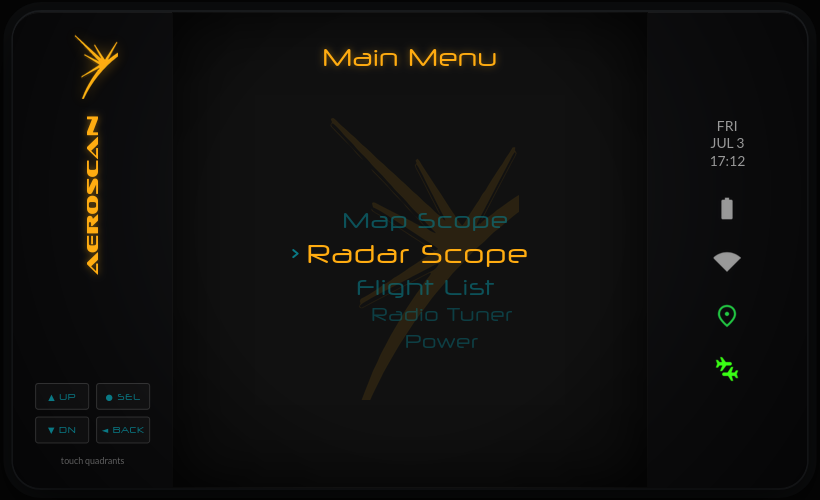
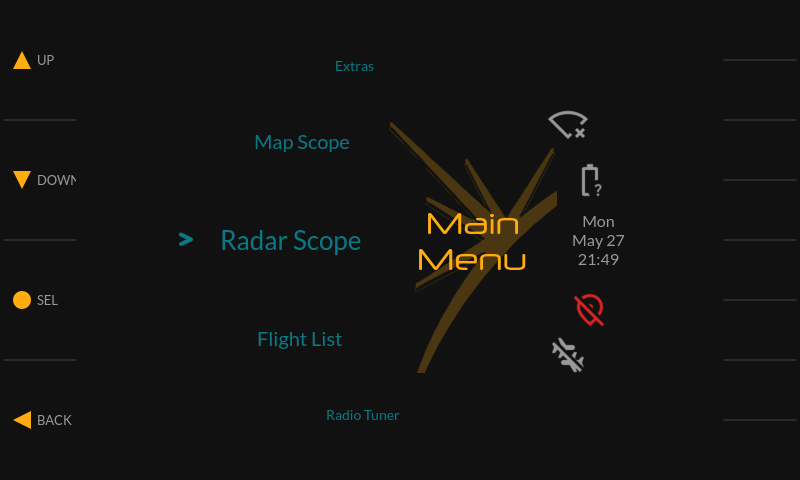
README: on-device screenshots, display selector and flash docs
Replace the design-render hero with a real on-device capture of the
main menu and add a Map Scope / Settings / Extras gallery (taken with
the GUI's F12 screenshot hotkey on the DSI panel). Document the
config.txt display-selection mechanism, the clone-panel kernel patch,
the safe flash-sd.sh flashing flow, and refresh the hardware table and
Pi 4 status for the DSI-default setup.

diff --git a/README.md b/README.md
@@ -10,9 +10,17 @@ firmware from its custom Allwinner T113S hardware to commodity Raspberry Pi
 hardware.
 
 <p align="center">
-  <img src="docs/main-menu.png" width="640" alt="AeroScan main menu — arc menu with Radar Scope focused, brand column left, status rail right">
+  <img src="docs/main-menu.png" width="640" alt="AeroScan main menu — arc menu with Radar Scope focused, touch zones left, status rail right">
   <br>
-  <em>Main menu (design-system render of the 800×480 instrument UI)</em>
+  <em>Main menu — on-device screenshot, 800×480 DSI display</em>
+</p>
+
+<p align="center">
+  <img src="docs/map-scope.png" width="32%" alt="Map Scope — aviation chart with airspace rings and airports">
+  <img src="docs/settings-menu.png" width="32%" alt="Settings menu">
+  <img src="docs/extras-menu.png" width="32%" alt="Extras menu">
+  <br>
+  <em>Map Scope (OpenAIP airspace overlay), Settings, and Extras — captured on-device (F12 screenshot hotkey)</em>
 </p>
 
 ## Features
@@ -26,8 +34,8 @@ Bluetooth keyboard. From the main menu:
 - **Map Scope** — the same traffic overlaid on aviation chart tiles (airspace,
   airports, NAVAIDs).
 - **Flight List** — scrollable list of tracked aircraft.
-- **Radio Tuner** — multi-band RTL-SDR receiver (see below). Appears only when a
-  second RTL-SDR dongle is present.
+- **Radio Tuner** — multi-band RTL-SDR receiver (see below). Works with one
+  dongle (handing off from ADS-B) or two (alongside ADS-B).
 - **Extras** — GPS List (satellite/fix detail), GPS Tracker (position plot),
   Clock, OScope, and Media Player (legacy avBadge demo apps).
 - **Credits**, **Settings**, and **Power** (poweroff / reboot / restart UI / exit
@@ -35,8 +43,11 @@ Bluetooth keyboard. From the main menu:
 
 ### Radio tuner
 
-Runs on a dedicated second RTL-SDR dongle (device 1; device 0 stays on ADS-B, so
-there is no coverage gap). Fully operable from the four touch keys:
+Shares the RTL-SDR hardware with ADS-B. With **two dongles** it runs on device 1
+while dump1090 keeps device 0, so there is no ADS-B coverage gap. With a **single
+dongle** it hands off: opening the tuner stops dump1090 and takes the dongle, and
+returning to an ADS-B screen (Radar/Map Scope, Flight List) restarts dump1090.
+Fully operable from the four touch keys:
 
 - **Bands** — FM broadcast (87.9–107.9 MHz, wideband FM), aviation airband
   (118–137 MHz, AM), and 2 m amateur (144–148 MHz, narrowband FM).
@@ -76,11 +87,41 @@ spontaneous reboots.
 | Component | Notes |
 |---|---|
 | Raspberry Pi 4 (recommended) or Pi 2 Model B | Pi 2 needs a powered USB hub |
-| Display | Pi 4: official 7" DSI or compatible clones (auto-detected), or HDMI. Pi 2: Waveshare 800×480 HDMI + XPT2046 resistive touch (SPI) |
-| RTL-SDR USB dongle(s) | device 0 = ADS-B 1090 MHz (dump1090); a second dongle (device 1) enables the radio tuner (FM / airband / 2 m) |
+| Display | Pi 4: Hosyond 5" DSI 800×480 (official-RPi-7"-clone, capacitive touch — default) or Waveshare 4" 480×800 HDMI + XPT2046 resistive touch, selected by one line in `config.txt` (see [Display selection](#display-selection-pi-4)). Pi 2: the Waveshare HDMI panel |
+| RTL-SDR USB dongle(s) | one runs ADS-B 1090 MHz (dump1090); the radio tuner (FM / airband / 2 m) hands off from it, or uses a second dongle to run alongside ADS-B |
 | u-blox GPS receiver | NEO-6M or similar, USB serial |
 | USB WiFi dongle | RT5370 supported out of the box |
 | Bluetooth | Pi 4 uses onboard BT (Pi 2 needs a USB dongle); in-app pairing over BlueZ D-Bus for a keyboard and/or audio headphones |
+
+## Display selection (Pi 4)
+
+The Pi 4 image supports two panels. The active one is chosen by a single
+`include` line in `config.txt` on the SD card's FAT boot partition — editable
+on any computer by moving the leading `#`:
+
+```
+include display-dsi.txt      # Hosyond 5" DSI, 800×480 landscape (default)
+#include display-hdmi.txt    # Waveshare 4" HDMI, 480×800 portrait + XPT2046
+```
+
+Each `display-*.txt` carries everything its panel needs — device tree overlays,
+touch controller, and (for HDMI) the matching kernel cmdline with console
+rotation and hotplug forcing — so swapping panels requires no other edits. The
+on-device services (`aeroscan-display-init`, sourced for both the systemd unit
+and manual `aeroscan-gui` starts) detect the connected panel at runtime and set
+the Qt rotation and touch mapping to match.
+
+The Hosyond panel, like most "official-compatible" DSI clones, emulates the
+original ATTiny power-controller I2C protocol and ignores the port-state
+protocol the mainline `rpi-panel-attiny-regulator` driver switched to in
+Linux 5.16 — stock kernels leave it black at the firmware→kernel handoff, with
+no errors anywhere. The image carries a kernel patch
+(`buildroot-external/board/rpi4/linux/patches/`) restoring the legacy power-on
+sequence. Two helper scripts support display bring-up: `patch-sd-dsi.sh`
+patches a flashed card from the host without a rebuild, and
+`aeroscan-dsidiag.sh` (installed on-device as `aeroscan-dsidiag`) collects DSI
+pipeline state; `aeroscan-drm-init` also dumps display diagnostics to
+`/var/log/` on every boot.
 
 ## Building
 
@@ -100,10 +141,14 @@ make rpi4                        # configure + full build (or: make rpi2)
 Flash the result to an SD card:
 
 ```bash
-# oflag=direct + conv=fsync make dd block until data is physically on the
-# card — without them, pulling the card early silently corrupts the rootfs
-dd if=output/rpi4/images/sdcard.img of=/dev/sdX bs=4M oflag=direct conv=fsync status=progress
+./flash-sd.sh /dev/sdX          # unmounts auto-mounts, flashes, verifies
 ```
+
+(`flash-sd.sh` wraps `dd bs=4M oflag=direct conv=fsync`. Unmounting any
+desktop auto-mounted partitions first is essential — writing the raw device
+while its old partitions are mounted lets stale filesystem metadata flush
+over the fresh image and silently corrupts the rootfs — and the script
+fsck-verifies the written card before declaring success.)
 
 Useful targets (see `Makefile` for the full list):
 
@@ -163,7 +208,8 @@ Makefile                  Top-level build entry points (wraps Buildroot)
 aeroscan-gui/             Qt5 application source (radar scope, map, radio, settings, …)
 buildroot-external/       Buildroot external tree (BR2_EXTERNAL)
   configs/                aeroscan_rpi2_defconfig, aeroscan_rpi4_defconfig
-  board/rpi2/, rpi4/      config.txt, cmdline.txt, kernel fragments, rootfs
+  board/rpi2/, rpi4/      config.txt, cmdline*.txt, display-*.txt selection
+                          files, kernel fragments and patches, rootfs
                           overlays, post-build/post-image scripts
   board/common/overlay/   Shared on-device files (aeroscan-setup,
                           aeroscan-fetch-tiles, NASR updater, seed radio presets)
@@ -176,8 +222,9 @@ buildroot/, output/       (gitignored) Buildroot tree and build output
 ## Status
 
 - **Pi 2**: display + touch, Qt GUI, ADS-B working; WiFi bring-up in progress.
-- **Pi 4**: primary target. Display auto-detection (DSI preferred, HDMI
-  fallback), touch input rotation, WiFi and SSH, in-app Bluetooth pairing (BlueZ
+- **Pi 4**: primary target. Dual-display support (Hosyond DSI default /
+  Waveshare HDMI, one-line selector in config.txt, clone-panel kernel patch)
+  with per-panel touch and rotation handled at runtime, WiFi and SSH, in-app Bluetooth pairing (BlueZ
   D-Bus, passkey shown on screen) for both keyboards and audio headphones, audio
   output selection (headphone jack / HDMI / Bluetooth), and the multi-band radio
   tuner with squelch, user presets, and live FAA NASR airport frequencies. Code